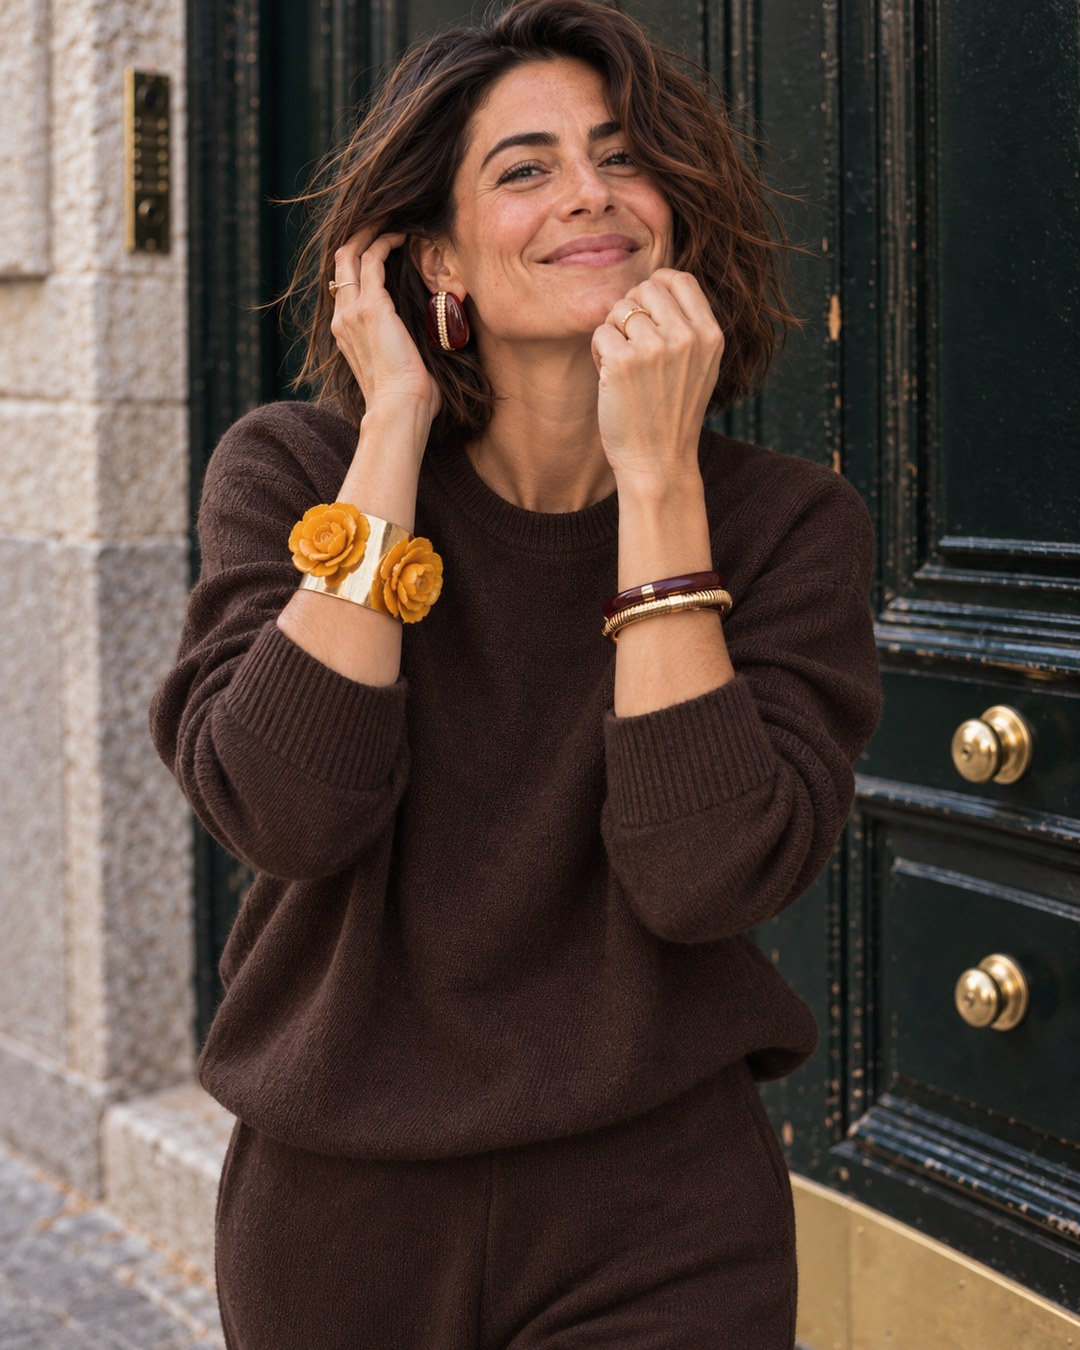
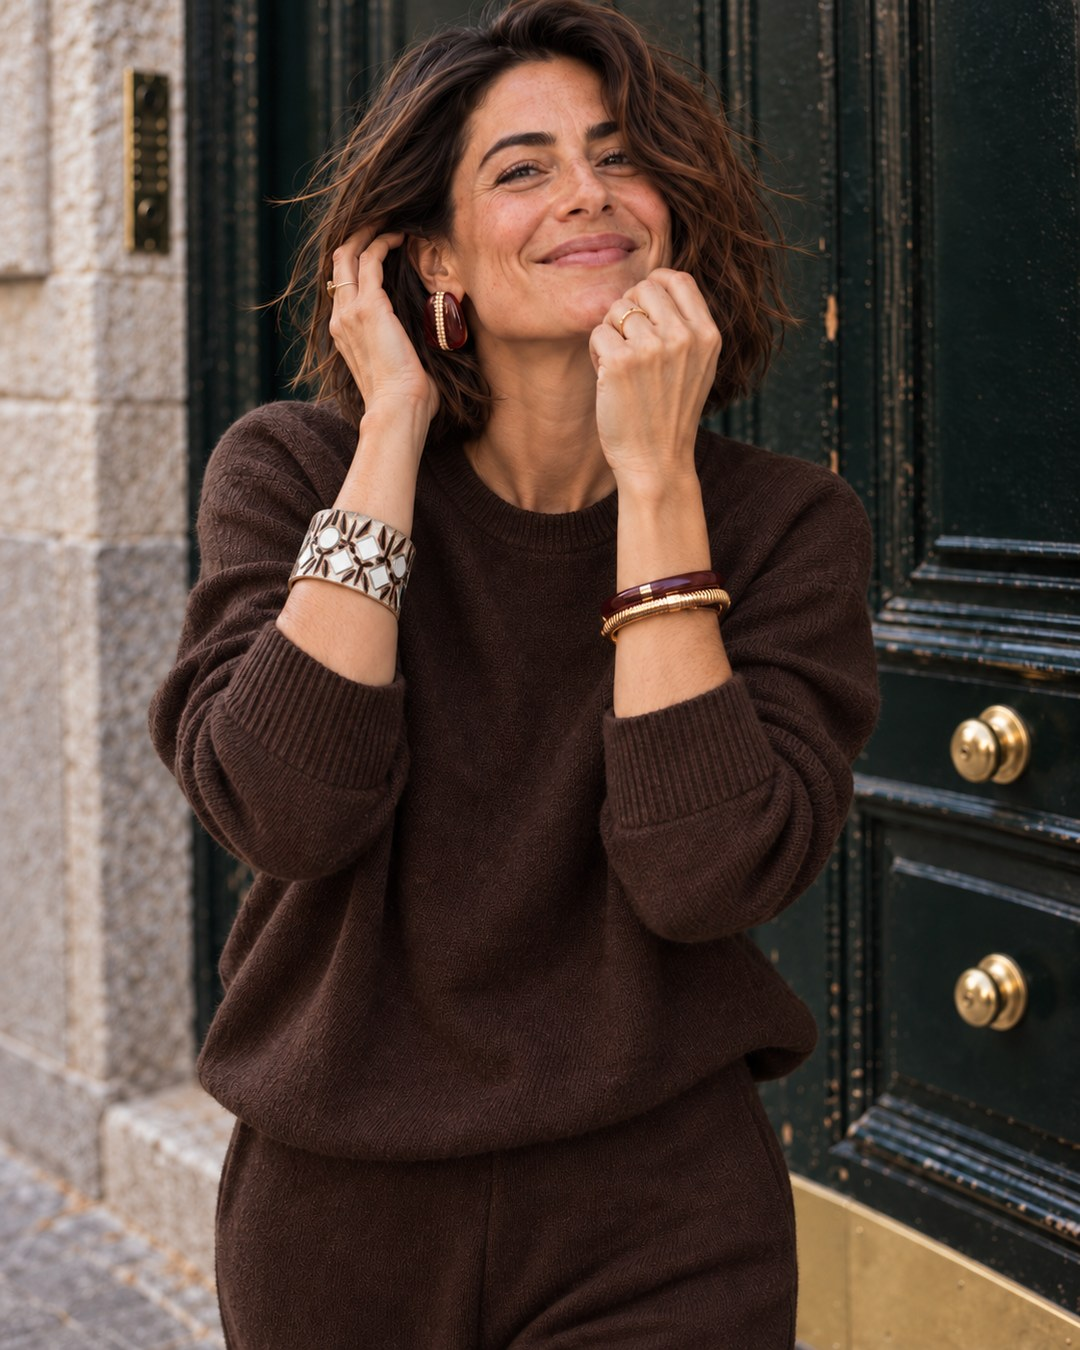
Add files via upload

diff --git a/index.html b/index.html
@@ -68,7 +68,7 @@ const LOOKS = [
    ]},
   {id:"joyas", kicker:"Close-up", title:"Resin, please", date:"6 Oct 2026", img:"joyas.jpg",
    items:[
-    {b:"Zara", n:"Flower resin maxi cuff · Marisa Berenson x Zara", p:"€29.95", u:"https://www.zara.com/es/es/maxi-pulsera-metalica-flores-resina-marisa-berenson-x-zara-p04548203.html"},
+    {b:"Mango", n:"Resin cuff bracelet", p:"€19.99", u:"https://shop.mango.com/es/es/p/mujer/bisuteria/fiesta/pulsera-rigida-resina/37081342/30/00"},
     {b:"Mango", n:"Resin earrings", p:"€15.99", u:"https://shop.mango.com/es/es/p/mujer/bisuteria/fiesta/pendientes-resina/37027798/76/00"},
     {b:"Mango", n:"Pack of 2 bangles", p:"€19.99", u:"https://shop.mango.com/es/es/p/mujer/bisuteria/pulseras/pack-de-2-pulseras-diseno-irregular/37086005/OR/00"}
    ]},
